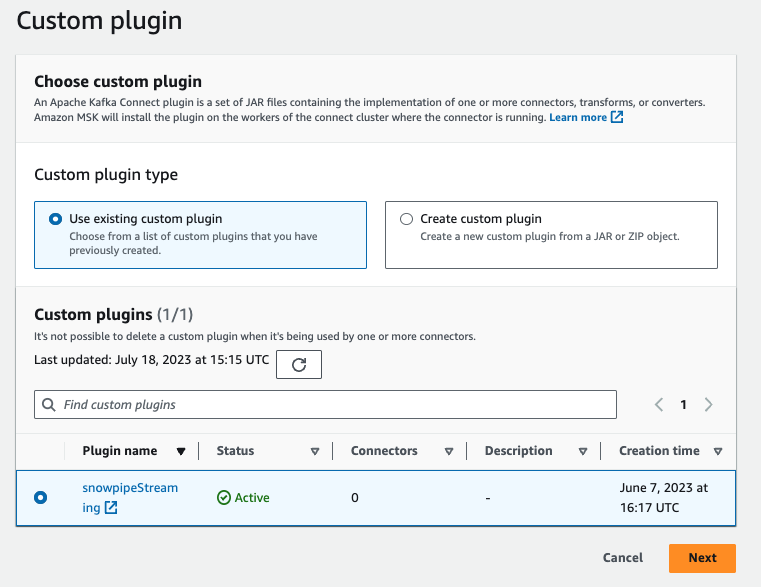
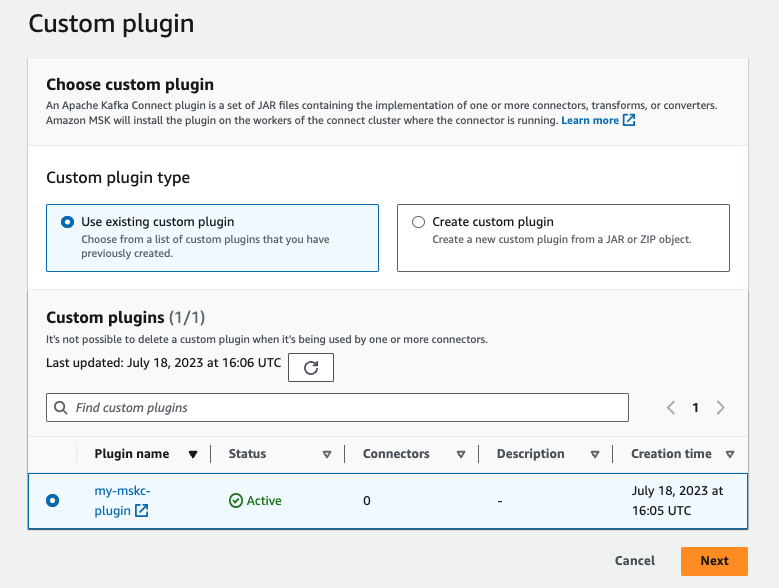
update to latest claat

diff --git a/site/sfguides/src/getting_started_with_snowpipe_streaming_aws_msk/getting_started_with_snowpipe_streaming_aws_msk.md b/site/sfguides/src/getting_started_with_snowpipe_streaming_aws_msk/getting_started_with_snowpipe_streaming_aws_msk.md
@@ -555,7 +555,8 @@ Click `Create Custom plugin`.
 ![](assets/custom-plugin.png)
 
 Fill in the s3 path to your uploaded zip file, e.g. `s3://my-mskc-bucket/snowpipeStreaming-mskc-plugins.zip`
-Give the custom plugin a name, e.g. `mymskc-plugin`, click `Create custom plugin`.
+Give the custom plugin a name, e.g. `my-mskc-plugin`, click `Create custom plugin`.
+
 ![](assets/custom-plugin-2.png)
 
 #### 4. Create a connector
@@ -572,8 +573,9 @@ the content from the configuration file: `$HOME/snowpipe-streaming/scripts/snowf
 ![](assets/mskc-connector-config.png)
 
 Leave all other settings as default, further scroll down to `Access permissions`. In the `Choose service role` drop-down menu, select
-the role created by the Cloudformation template in the beginning of this quickstarts. The role name looks like this
+the role created by the Cloudformation template in the beginning of this quickstarts. The role name should look something like this
 `<CFT stack name>-MSKConnectRole-<random characters>`. Click `Next`.
+
 ![](assets/mskc-connector-permission.png)
 
 In the `Security` page, leave everything as default, click `Next`.
@@ -581,8 +583,8 @@ Skip the `Logs` page as it is optional, click `Next`.
 Review the configurations and click `Create connector`. The connector will be created in about 5-10 minutes.
 ![](assets/mskc-connector-running.png)
 
-At this point, the Kafka connector for Snowpipestreaming is configured and managed by MSKC, all you need to do is to 
-run the resource side connector periodically as shown in Step 3 of Section 6. 
+At this point, the Kafka connector for Snowpipestreaming has been configured, it is running and managed by MSKC, all you need to do is to 
+run the source connector to ingest live data continuously as shown in Step 3 of Section 6. 
 <!---------------------------->
 
 ## Cleanup
